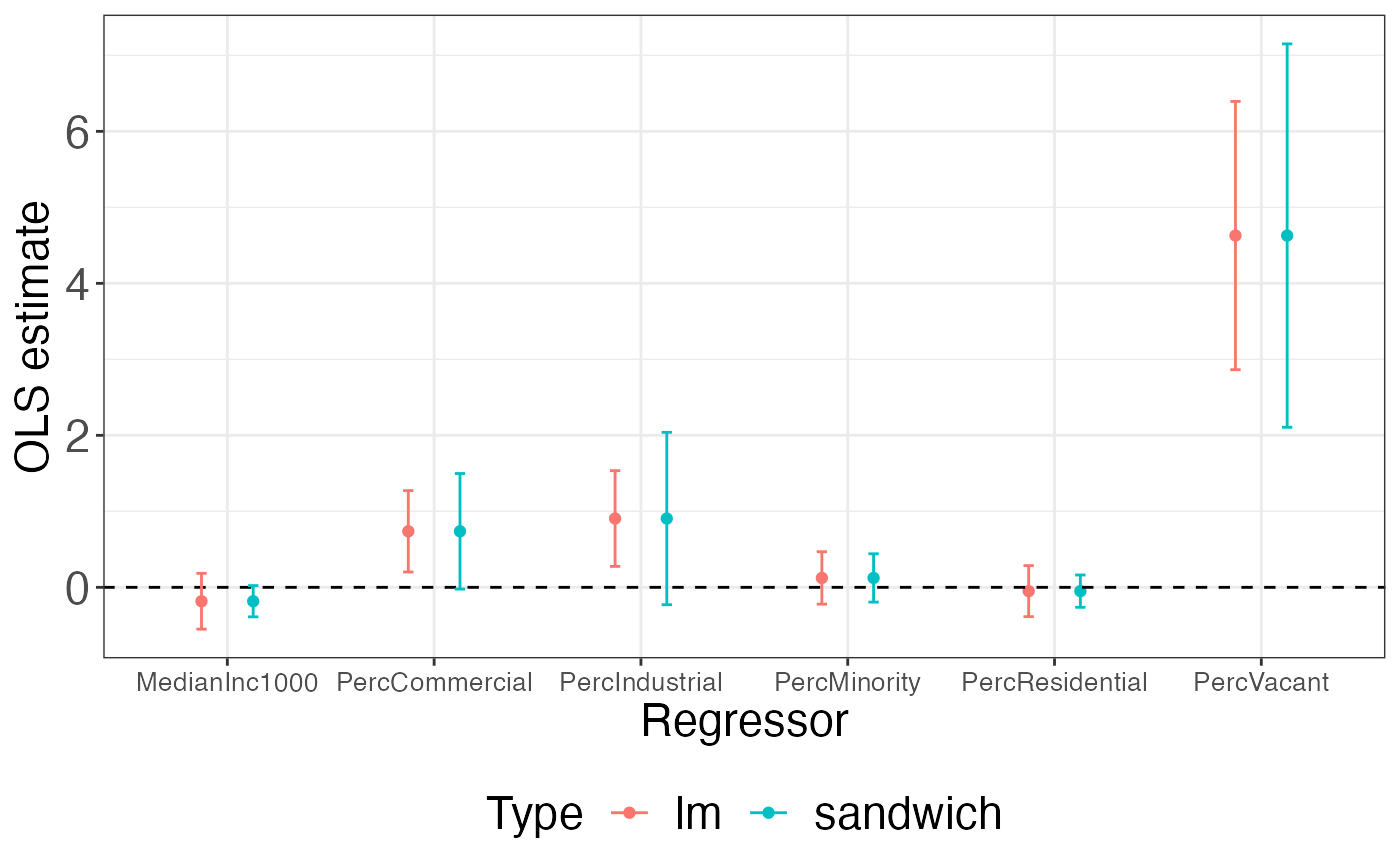
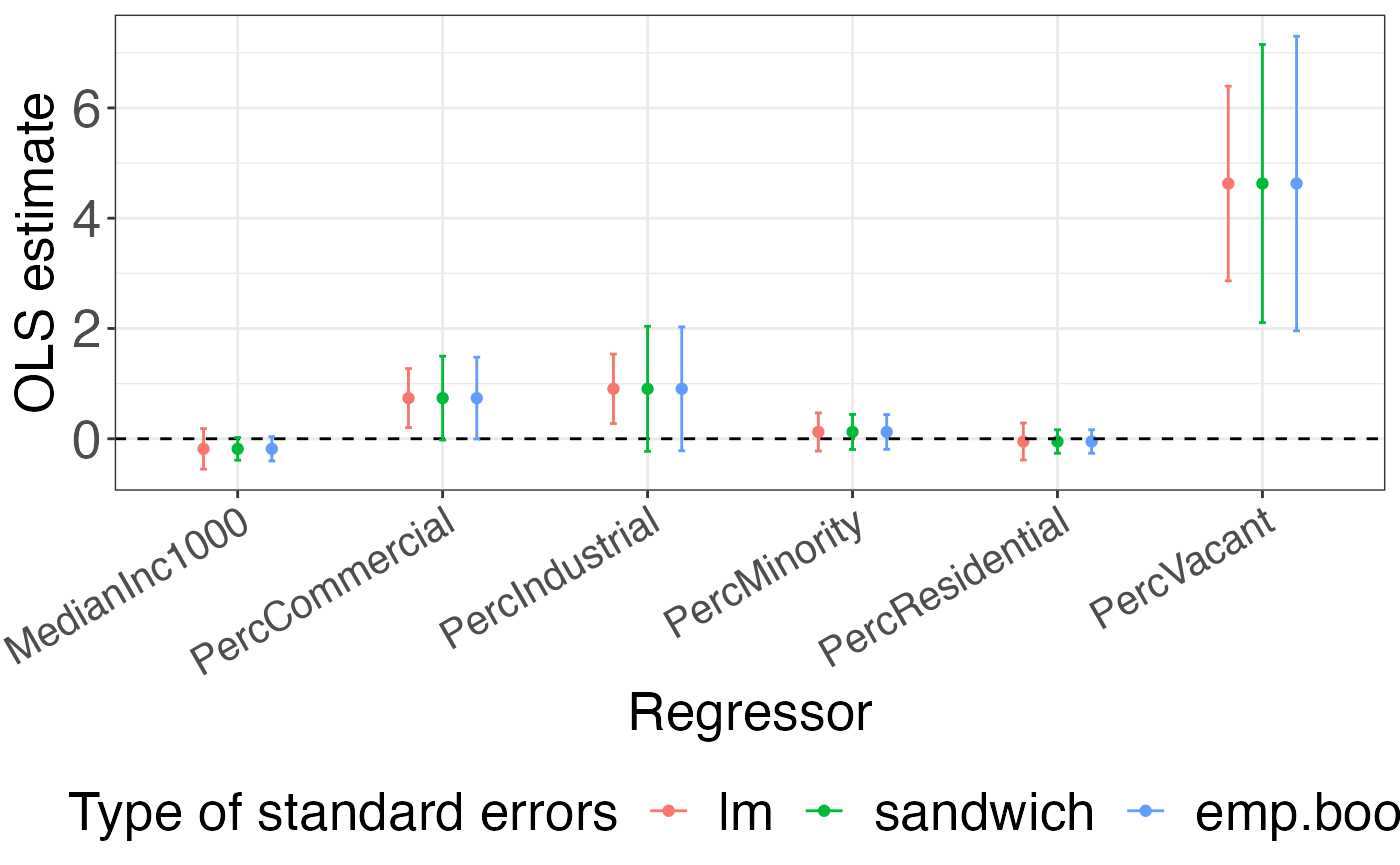
FT: #20 Remove magick, add xtable, fix confidence int plot ordering

diff --git a/docs/articles/se-la-county-data.html b/docs/articles/se-la-county-data.html
@@ -452,7 +452,7 @@ Term
 0.76
 </td>
 <td style="text-align:center;">
-16.83
+16.23
 </td>
 <td style="text-align:center;">
 0.05
@@ -469,13 +469,13 @@ MedianInc1000
 -0.18
 </td>
 <td style="text-align:center;">
-0.12
+0.11
 </td>
 <td style="text-align:center;">
--1.53
+-1.63
 </td>
 <td style="text-align:center;">
-0.88
+0.90
 </td>
 </tr>
 <tr>
@@ -486,13 +486,13 @@ PercCommercial
 0.74
 </td>
 <td style="text-align:center;">
-0.41
+0.38
 </td>
 <td style="text-align:center;">
-1.81
+1.95
 </td>
 <td style="text-align:center;">
-0.94
+0.95
 </td>
 </tr>
 <tr>
@@ -509,7 +509,7 @@ PercIndustrial
 1.58
 </td>
 <td style="text-align:center;">
-0.89
+0.88
 </td>
 </tr>
 <tr>
@@ -520,13 +520,13 @@ PercMinority
 0.12
 </td>
 <td style="text-align:center;">
-0.17
+0.16
 </td>
 <td style="text-align:center;">
-0.74
+0.77
 </td>
 <td style="text-align:center;">
-0.54
+0.55
 </td>
 </tr>
 <tr>
@@ -540,10 +540,10 @@ PercResidential
 0.11
 </td>
 <td style="text-align:center;">
--0.44
+-0.46
 </td>
 <td style="text-align:center;">
-0.36
+0.37
 </td>
 </tr>
 <tr>
@@ -554,13 +554,13 @@ PercVacant
 4.63
 </td>
 <td style="text-align:center;">
-1.38
+1.36
 </td>
 <td style="text-align:center;">
-3.35
+3.40
 </td>
 <td style="text-align:center;">
-0.99
+1.00
 </td>
 </tr>
 </tbody>
@@ -573,15 +573,15 @@ PercVacant
   <span class="fu">tidyr</span><span class="fu">::</span><span class="fu"><a href="https://tidyr.tidyverse.org/reference/pivot_wider.html">pivot_wider</a></span><span class="op">(</span>names_from <span class="op">=</span> <span class="va">q</span>, values_from <span class="op">=</span> <span class="va">x</span><span class="op">)</span>
 <span class="co">#&gt; # A tibble: 7 x 3</span>
 <span class="co">#&gt; # Groups:   term [7]</span>
-<span class="co">#&gt;   term              `0.025` `0.975`</span>
-<span class="co">#&gt;   &lt;chr&gt;               &lt;dbl&gt;   &lt;dbl&gt;</span>
-<span class="co">#&gt; 1 (Intercept)     -35.0     33.5   </span>
-<span class="co">#&gt; 2 MedianInc1000    -0.442    0.0440</span>
-<span class="co">#&gt; 3 PercCommercial   -0.00313  1.54  </span>
-<span class="co">#&gt; 4 PercIndustrial   -0.109    2.07  </span>
-<span class="co">#&gt; 5 PercMinority     -0.182    0.439 </span>
-<span class="co">#&gt; 6 PercResidential  -0.293    0.174 </span>
-<span class="co">#&gt; 7 PercVacant        2.58     7.97</span></code></pre></div>
+<span class="co">#&gt;   term             `0.025` `0.975`</span>
+<span class="co">#&gt;   &lt;chr&gt;              &lt;dbl&gt;   &lt;dbl&gt;</span>
+<span class="co">#&gt; 1 (Intercept)     -33.1    32.0   </span>
+<span class="co">#&gt; 2 MedianInc1000    -0.423   0.0135</span>
+<span class="co">#&gt; 3 PercCommercial    0.0323  1.50  </span>
+<span class="co">#&gt; 4 PercIndustrial   -0.128   2.10  </span>
+<span class="co">#&gt; 5 PercMinority     -0.183   0.445 </span>
+<span class="co">#&gt; 6 PercResidential  -0.270   0.156 </span>
+<span class="co">#&gt; 7 PercVacant        2.69    7.93</span></code></pre></div>
 </div>
 <div id="computing-standard-errors-from-ols-using-multiplier-bootstrap" class="section level2">
 <h2 class="hasAnchor">
@@ -623,18 +623,32 @@ PercVacant
 <span class="co">#&gt; # … with 1 more variable: p.value.sand &lt;dbl&gt;</span></code></pre></div>
 <p>We can also visually compare the two types of confidence intervals.</p>
 <div class="sourceCode" id="cb15"><pre class="downlit sourceCode r">
-<code class="sourceCode R"><span class="va">comp_se</span> <span class="op">&lt;-</span> <span class="va">se_sand</span> <span class="op">%&gt;%</span>
+<code class="sourceCode R"><span class="va">comp_se</span> <span class="op">&lt;-</span> <span class="va">se_sand</span> <span class="op">%&gt;%</span> 
+  <span class="fu">dplyr</span><span class="fu">::</span><span class="fu"><a href="https://dplyr.tidyverse.org/reference/select.html">select</a></span><span class="op">(</span><span class="va">term</span>, <span class="va">estimate</span>, <span class="va">std.error.sand</span>, <span class="va">std.error</span><span class="op">)</span> <span class="op">%&gt;%</span>
   <span class="fu">dplyr</span><span class="fu">::</span><span class="fu"><a href="https://dplyr.tidyverse.org/reference/filter.html">filter</a></span><span class="op">(</span><span class="va">term</span> <span class="op">!=</span> <span class="st">'(Intercept)'</span><span class="op">)</span> <span class="op">%&gt;%</span>
-  <span class="fu">tidyr</span><span class="fu">::</span><span class="fu"><a href="https://tidyr.tidyverse.org/reference/pivot_longer.html">pivot_longer</a></span><span class="op">(</span>cols <span class="op">=</span> <span class="fu"><a href="https://rdrr.io/r/base/c.html">c</a></span><span class="op">(</span><span class="va">std.error</span>, <span class="va">std.error.sand</span><span class="op">)</span>, names_to <span class="op">=</span> <span class="st">'Type'</span>, values_to <span class="op">=</span> <span class="st">'std.error'</span><span class="op">)</span> <span class="op">%&gt;%</span>
-  <span class="fu">dplyr</span><span class="fu">::</span><span class="fu"><a href="https://dplyr.tidyverse.org/reference/mutate.html">mutate</a></span><span class="op">(</span>Type <span class="op">=</span> <span class="fu"><a href="https://rdrr.io/r/base/ifelse.html">ifelse</a></span><span class="op">(</span><span class="va">Type</span> <span class="op">==</span> <span class="st">'std.error'</span>, <span class="st">'lm'</span>, <span class="st">'sandwich'</span><span class="op">)</span><span class="op">)</span> <span class="op">%&gt;%</span>
+  <span class="fu">dplyr</span><span class="fu">::</span><span class="fu"><a href="https://dplyr.tidyverse.org/reference/mutate-joins.html">inner_join</a></span><span class="op">(</span><span class="va">se_emp</span> <span class="op">%&gt;%</span> <span class="fu">dplyr</span><span class="fu">::</span><span class="fu"><a href="https://dplyr.tidyverse.org/reference/select.html">select</a></span><span class="op">(</span><span class="va">term</span>, <span class="va">std.error.boot.emp</span><span class="op">)</span>, 
+                    by <span class="op">=</span> <span class="st">'term'</span><span class="op">)</span> <span class="op">%&gt;%</span> 
+  <span class="fu">tidyr</span><span class="fu">::</span><span class="fu"><a href="https://tidyr.tidyverse.org/reference/pivot_longer.html">pivot_longer</a></span><span class="op">(</span>cols <span class="op">=</span> <span class="fu"><a href="https://rdrr.io/r/base/c.html">c</a></span><span class="op">(</span><span class="va">std.error</span>, <span class="va">std.error.sand</span>, <span class="va">std.error.boot.emp</span><span class="op">)</span>,
+                      names_to <span class="op">=</span> <span class="st">'Type'</span>, 
+                      values_to <span class="op">=</span> <span class="st">'std.error'</span><span class="op">)</span> <span class="op">%&gt;%</span>
+  <span class="fu">dplyr</span><span class="fu">::</span><span class="fu"><a href="https://dplyr.tidyverse.org/reference/mutate.html">mutate</a></span><span class="op">(</span>Type <span class="op">=</span> <span class="fu">dplyr</span><span class="fu">::</span><span class="fu"><a href="https://dplyr.tidyverse.org/reference/case_when.html">case_when</a></span><span class="op">(</span>
+                          <span class="va">Type</span> <span class="op">==</span> <span class="st">"std.error"</span> <span class="op">~</span> <span class="st">"lm"</span>,
+                          <span class="va">Type</span> <span class="op">==</span> <span class="st">"std.error.sand"</span> <span class="op">~</span> <span class="st">"sandwich"</span>,
+                          <span class="va">Type</span> <span class="op">==</span> <span class="st">"std.error.boot.emp"</span> <span class="op">~</span> <span class="st">"emp.boot."</span><span class="op">)</span><span class="op">)</span> <span class="op">%&gt;%</span>
+  <span class="fu">dplyr</span><span class="fu">::</span><span class="fu"><a href="https://dplyr.tidyverse.org/reference/mutate.html">mutate</a></span><span class="op">(</span>Type <span class="op">=</span> 
+                  <span class="fu">forcats</span><span class="fu">::</span><span class="fu"><a href="https://forcats.tidyverse.org/reference/fct_relevel.html">fct_relevel</a></span><span class="op">(</span><span class="va">Type</span>, 
+                                       <span class="st">"lm"</span>, <span class="st">"sandwich"</span>, <span class="st">"emp.boot."</span><span class="op">)</span><span class="op">)</span> <span class="op">%&gt;%</span> 
   <span class="fu">ggplot2</span><span class="fu">::</span><span class="fu"><a href="https://ggplot2.tidyverse.org/reference/ggplot.html">ggplot</a></span><span class="op">(</span><span class="fu">ggplot2</span><span class="fu">::</span><span class="fu"><a href="https://ggplot2.tidyverse.org/reference/aes.html">aes</a></span><span class="op">(</span><span class="va">term</span>, <span class="va">estimate</span>, col <span class="op">=</span> <span class="va">Type</span><span class="op">)</span><span class="op">)</span> <span class="op">+</span> 
   <span class="fu">ggplot2</span><span class="fu">::</span><span class="fu"><a href="https://ggplot2.tidyverse.org/reference/ggtheme.html">theme_bw</a></span><span class="op">(</span><span class="op">)</span> <span class="op">+</span> 
-    <span class="fu">ggplot2</span><span class="fu">::</span><span class="fu"><a href="https://ggplot2.tidyverse.org/reference/geom_point.html">geom_point</a></span><span class="op">(</span>position<span class="op">=</span><span class="fu">ggplot2</span><span class="fu">::</span><span class="fu"><a href="https://ggplot2.tidyverse.org/reference/position_dodge.html">position_dodge</a></span><span class="op">(</span>width<span class="op">=</span><span class="fl">0.5</span><span class="op">)</span><span class="op">)</span> <span class="op">+</span> 
+  <span class="fu">ggplot2</span><span class="fu">::</span><span class="fu"><a href="https://ggplot2.tidyverse.org/reference/geom_point.html">geom_point</a></span><span class="op">(</span>position<span class="op">=</span><span class="fu">ggplot2</span><span class="fu">::</span><span class="fu"><a href="https://ggplot2.tidyverse.org/reference/position_dodge.html">position_dodge</a></span><span class="op">(</span>width<span class="op">=</span><span class="fl">0.5</span><span class="op">)</span><span class="op">)</span> <span class="op">+</span> 
   <span class="fu">ggplot2</span><span class="fu">::</span><span class="fu"><a href="https://ggplot2.tidyverse.org/reference/labs.html">labs</a></span><span class="op">(</span>x <span class="op">=</span> <span class="st">'Regressor'</span>, y <span class="op">=</span> <span class="st">'Estimate'</span><span class="op">)</span> <span class="op">+</span>
   <span class="fu">ggplot2</span><span class="fu">::</span><span class="fu"><a href="https://ggplot2.tidyverse.org/reference/geom_abline.html">geom_hline</a></span><span class="op">(</span>yintercept <span class="op">=</span> <span class="fl">0</span>, linetype <span class="op">=</span> <span class="st">'dashed'</span><span class="op">)</span> <span class="op">+</span>
-  <span class="fu">ggplot2</span><span class="fu">::</span><span class="fu"><a href="https://ggplot2.tidyverse.org/reference/geom_linerange.html">geom_errorbar</a></span><span class="op">(</span><span class="fu">ggplot2</span><span class="fu">::</span><span class="fu"><a href="https://ggplot2.tidyverse.org/reference/aes.html">aes</a></span><span class="op">(</span>ymin <span class="op">=</span> <span class="va">estimate</span><span class="op">-</span><span class="fl">1.96</span><span class="op">*</span><span class="va">std.error</span>, ymax <span class="op">=</span> <span class="va">estimate</span><span class="op">+</span><span class="fl">1.96</span><span class="op">*</span><span class="va">std.error</span>, col <span class="op">=</span> <span class="va">Type</span><span class="op">)</span>,
-                         position <span class="op">=</span> <span class="fu">ggplot2</span><span class="fu">::</span><span class="fu"><a href="https://ggplot2.tidyverse.org/reference/position_dodge.html">position_dodge</a></span><span class="op">(</span>width<span class="op">=</span><span class="fl">0.5</span><span class="op">)</span>, width <span class="op">=</span> <span class="fl">0.1</span>
-                         <span class="op">)</span>
+  <span class="fu">ggplot2</span><span class="fu">::</span><span class="fu"><a href="https://ggplot2.tidyverse.org/reference/geom_linerange.html">geom_errorbar</a></span><span class="op">(</span><span class="fu">ggplot2</span><span class="fu">::</span><span class="fu"><a href="https://ggplot2.tidyverse.org/reference/aes.html">aes</a></span><span class="op">(</span>ymin <span class="op">=</span> <span class="va">estimate</span><span class="op">-</span><span class="fl">1.96</span><span class="op">*</span><span class="va">std.error</span>, 
+                                      ymax <span class="op">=</span> <span class="va">estimate</span><span class="op">+</span><span class="fl">1.96</span><span class="op">*</span><span class="va">std.error</span><span class="op">)</span>,
+                         position <span class="op">=</span> <span class="fu">ggplot2</span><span class="fu">::</span><span class="fu"><a href="https://ggplot2.tidyverse.org/reference/position_dodge.html">position_dodge</a></span><span class="op">(</span>width<span class="op">=</span><span class="fl">0.5</span><span class="op">)</span>, 
+                         width <span class="op">=</span> <span class="fl">0.1</span><span class="op">)</span> <span class="op">+</span> 
+  <span class="fu">ggplot2</span><span class="fu">::</span><span class="fu"><a href="https://ggplot2.tidyverse.org/reference/theme.html">theme</a></span><span class="op">(</span>axis.text.x <span class="op">=</span> <span class="fu">ggplot2</span><span class="fu">::</span><span class="fu"><a href="https://ggplot2.tidyverse.org/reference/element.html">element_text</a></span><span class="op">(</span>angle <span class="op">=</span> <span class="fl">30</span>, hjust <span class="op">=</span> <span class="fl">1</span><span class="op">)</span><span class="op">)</span> <span class="op">+</span>
+  <span class="fu">ggplot2</span><span class="fu">::</span><span class="fu"><a href="https://ggplot2.tidyverse.org/reference/guides.html">guides</a></span><span class="op">(</span>col<span class="op">=</span><span class="fu">ggplot2</span><span class="fu">::</span><span class="fu"><a href="https://ggplot2.tidyverse.org/reference/guide_legend.html">guide_legend</a></span><span class="op">(</span>title<span class="op">=</span><span class="st">"Type of standard errors"</span><span class="op">)</span><span class="op">)</span>
 <span class="va">comp_se</span></code></pre></div>
 <p><img src="se-la-county-data_files/figure-html/plot_std_sand-1.png" width="700" style="display: block; margin: auto;"></p>
 </div>
@@ -726,7 +740,7 @@ Term
 0.96
 </td>
 <td style="text-align:center;">
-16.83
+16.23
 </td>
 <td style="text-align:center;">
 0.05
@@ -761,13 +775,13 @@ MedianInc1000
 0.08
 </td>
 <td style="text-align:center;">
-0.12
+0.11
 </td>
 <td style="text-align:center;">
--1.53
+-1.63
 </td>
 <td style="text-align:center;">
-0.88
+0.90
 </td>
 </tr>
 <tr>
@@ -796,13 +810,13 @@ PercVacant
 0.00
 </td>
 <td style="text-align:center;">
-1.38
+1.36
 </td>
 <td style="text-align:center;">
-3.35
+3.40
 </td>
 <td style="text-align:center;">
-0.99
+1.00
 </td>
 </tr>
 <tr>
@@ -831,13 +845,13 @@ PercMinority
 0.45
 </td>
 <td style="text-align:center;">
-0.17
+0.16
 </td>
 <td style="text-align:center;">
-0.74
+0.77
 </td>
 <td style="text-align:center;">
-0.54
+0.55
 </td>
 </tr>
 <tr>
@@ -869,10 +883,10 @@ PercResidential
 0.11
 </td>
 <td style="text-align:center;">
--0.44
+-0.46
 </td>
 <td style="text-align:center;">
-0.36
+0.37
 </td>
 </tr>
 <tr>
@@ -901,13 +915,13 @@ PercCommercial
 0.06
 </td>
 <td style="text-align:center;">
-0.41
+0.38
 </td>
 <td style="text-align:center;">
-1.81
+1.95
 </td>
 <td style="text-align:center;">
-0.94
+0.95
 </td>
 </tr>
 <tr>
@@ -942,7 +956,7 @@ PercIndustrial
 1.58
 </td>
 <td style="text-align:center;">
-0.89
+0.88
 </td>
 </tr>
 </tbody>

diff --git a/vignettes/figures/output/r05_se_comb.tex b/vignettes/figures/output/r05_se_comb.tex
@@ -1,18 +1,18 @@
 % latex table generated in R 4.0.2 by xtable 1.8-4 package
-% Sun Dec 13 17:33:06 2020
+% Mon Dec 14 23:12:58 2020
 \begin{table}[ht]
 \centering
 \begin{tabular}{lrrrrrrrr}
   \hline
 Term & $\widehat{\beta}_{j}$ & $SE_{\text{lin}}$ & $SE_{\text{sand}}$ & $t_{\text{sand}}$ & $p_{\text{sand}}$ & $SE_{\text{boot}}$ & $t_{\text{boot}}$ & $p_{\text{boot}}$ \\ 
   \hline
-(Intercept) & 0.76 & 22.77 & 15.91 & 0.05 & 0.96 & 16.83 & 0.05 & 0.04 \\ 
-  MedianInc1000 & -0.18 & 0.19 & 0.10 & -1.75 & 0.08 & 0.12 & -1.53 & 0.88 \\ 
-  PercVacant & 4.63 & 0.90 & 1.29 & 3.60 & 0.00 & 1.38 & 3.35 & 0.99 \\ 
-  PercMinority & 0.12 & 0.18 & 0.16 & 0.76 & 0.45 & 0.17 & 0.74 & 0.54 \\ 
-  PercResidential & -0.05 & 0.17 & 0.11 & -0.46 & 0.64 & 0.11 & -0.44 & 0.36 \\ 
-  PercCommercial & 0.74 & 0.27 & 0.39 & 1.90 & 0.06 & 0.41 & 1.81 & 0.94 \\ 
-  PercIndustrial & 0.91 & 0.32 & 0.58 & 1.56 & 0.12 & 0.57 & 1.58 & 0.89 \\ 
+(Intercept) & 0.76 & 22.77 & 15.91 & 0.05 & 0.96 & 16.23 & 0.05 & 0.04 \\ 
+  MedianInc1000 & -0.18 & 0.19 & 0.10 & -1.75 & 0.08 & 0.11 & -1.63 & 0.90 \\ 
+  PercVacant & 4.63 & 0.90 & 1.29 & 3.60 & 0.00 & 1.36 & 3.40 & 1.00 \\ 
+  PercMinority & 0.12 & 0.18 & 0.16 & 0.76 & 0.45 & 0.16 & 0.77 & 0.55 \\ 
+  PercResidential & -0.05 & 0.17 & 0.11 & -0.46 & 0.64 & 0.11 & -0.46 & 0.37 \\ 
+  PercCommercial & 0.74 & 0.27 & 0.39 & 1.90 & 0.06 & 0.38 & 1.95 & 0.95 \\ 
+  PercIndustrial & 0.91 & 0.32 & 0.58 & 1.56 & 0.12 & 0.57 & 1.58 & 0.88 \\ 
    \hline
 \end{tabular}
 \caption{Summary - Sandwich Estimator and Empirical Bootstrap} 

diff --git a/vignettes/figures/output/r02b_se_emp.tex b/vignettes/figures/output/r02b_se_emp.tex
@@ -1,18 +1,18 @@
-% latex table generated in R 4.0.3 by xtable 1.8-4 package
-% Mon Dec 14 00:19:37 2020
+% latex table generated in R 4.0.2 by xtable 1.8-4 package
+% Mon Dec 14 23:12:54 2020
 \begin{table}[ht]
 \centering
 \begin{tabular}{lrrrr}
   \hline
 Term & $\widehat{\beta}_{j}$ & $SE_{\text{boot}}$ & $t_{\text{boot}}$ & $p_{\text{boot}}$ \\ 
   \hline
-(Intercept) & 0.76 & 17.42 & 0.04 & 0.03 \\ 
-  MedianInc1000 & -0.18 & 0.11 & -1.60 & 0.89 \\ 
-  PercCommercial & 0.74 & 0.40 & 1.85 & 0.93 \\ 
-  PercIndustrial & 0.91 & 0.58 & 1.56 & 0.89 \\ 
-  PercMinority & 0.12 & 0.16 & 0.77 & 0.56 \\ 
-  PercResidential & -0.05 & 0.11 & -0.45 & 0.35 \\ 
-  PercVacant & 4.63 & 1.42 & 3.27 & 0.99 \\ 
+(Intercept) & 0.76 & 16.23 & 0.05 & 0.04 \\ 
+  MedianInc1000 & -0.18 & 0.11 & -1.63 & 0.90 \\ 
+  PercCommercial & 0.74 & 0.38 & 1.95 & 0.95 \\ 
+  PercIndustrial & 0.91 & 0.57 & 1.58 & 0.88 \\ 
+  PercMinority & 0.12 & 0.16 & 0.77 & 0.55 \\ 
+  PercResidential & -0.05 & 0.11 & -0.46 & 0.37 \\ 
+  PercVacant & 4.63 & 1.36 & 3.40 & 1.00 \\ 
    \hline
 \end{tabular}
 \caption{Empirical Bootstrap Standard Errors} 

diff --git a/vignettes/figures/output/r01_se_sand.tex b/vignettes/figures/output/r01_se_sand.tex
@@ -1,5 +1,5 @@
-% latex table generated in R 4.0.3 by xtable 1.8-4 package
-% Mon Dec 14 00:19:40 2020
+% latex table generated in R 4.0.2 by xtable 1.8-4 package
+% Mon Dec 14 23:12:56 2020
 \begin{table}[ht]
 \centering
 \begin{tabular}{lrrrrr}
